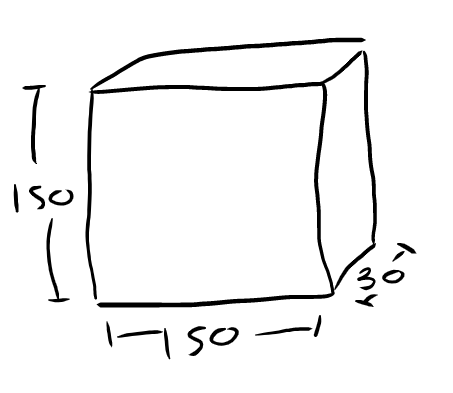
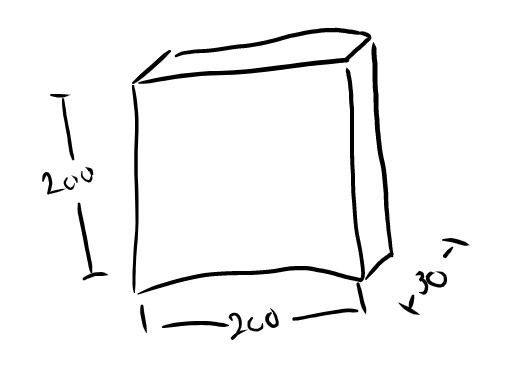
Add post for 2022-09-18

Changed region(s): [[0.0309, 0.0603, 0.9272, 0.9342], [0.0309, 0.211, 0.1545, 0.4521]]

diff --git a/docs/_posts/2022-09-18-measurements.md b/docs/_posts/2022-09-18-measurements.md
@@ -1,0 +1,71 @@
+---
+date: 2022-09-18 06:00:00 +1200
+layout: post
+tags: [Tinkercad]
+title: "Measurements"
+---
+
+Oh man there were a lot of numbers to think about today... Subconciously, I knew that it would be very hard to figure out how big everything should be. There are also things in the project such as spacing between LEDS and the size of the bolts I have that cannot be easily changed. This means I am contrained in some ways with what I can do.
+
+I started out thinking I would build a 200 x 200 x 30 mm box.
+
+One of my main sources of inspiration for measurements and constuction is the [Hexagonal Nanoleaf - Hexaleaf][hexaleaf] project on Thingiverse:
+
+![Hexaleafs]({{ site.baseurl }}/assets/images/hexaleafs.png)
+
+The main difference is I will be making a single, square box instead of multiple hexagons. The creator of Hexaleaf has included some of the dimensions of the project which have been very useful for my own designs:
+
+![Hexaleaf dimensions]({{ "assets/images/hexaleaf-dimensions.png" | relative_url }})
+
+The most important things I got from the above dimensions are the wall width of the enclosure (4 mm), the border width of the cover image (4 mm), and the height of the cover image (4 mm [3 mm + 1 mm sloped section]).:
+
+![Cover edge dimensions]({{ "assets/images/cover-edge-dimensions.png" | relative_url }})
+
+I was interested to see that Hexaleaf's depend on friction to hold the cover image in place, like so:
+
+![Cover mount]({{ "assets/images/cover-mount.png" | relative_url }})
+
+Based on the original 200 x 200 mm dimensions I was targetting, and the 4 mm wall width of the Hexaleafs, I calculated the length of each internal wall to be 192 mm. Given the LEDs I have are spaced 16.2 mm apart, this means I can have approximately 12 LEDs per wall. This would equate to 48 LEDs in total, which I am not sure the Pico can drive.
+
+<table>
+  <tr>
+    <td>
+      <img src="{{ 'assets/images/original-dimensions.png' | relative_url }}" alt="Original dimensions" />
+    </td>
+    <td>
+      <img src="{{ 'assets/images/led-spacing.png' | relative_url }}" alt="LED spacing" />
+    </td>
+  </tr>
+</table>
+
+To be on the safe side, I will aim for 30 LEDs maximumm, 8 on the left, top, and right walls, and 6 on the bottom wall, to account for where the Pico will be mounted.
+
+With this in mind, the ideal internal wall length will be more like 130 mm. I will include 10 mm on either side, giving a final internal wall length of 150 mm. Including the 4 mm wall width, results in a 158 x 158 mm square:
+
+![LED based dimensions]({{ "assets/images/led-based-dimensions.png" | relative_url }})
+
+What all of this ends up meaning for the cover image is that it will be 154 x 154 mm:
+
+![Cover dimensions]({{ "assets/images/front-bottom-dimensions.png" | relative_url }})
+
+I ended up having to tweak the SVG a bit to make sure the border is 4 mm:
+
+![Cover image]({{ "assets/images/final_svg.png" | relative_url }})
+
+That was just for the X and Y axis of the project... Let's talk about the Z axis 😅.
+
+There are several layers to the Z axis:
+
+* Cover image
+* LED strip
+* Base of the enclosure
+
+There is also the Rasperry Pi Pico but that will sit in the middle of the enclosure and it not very thick so don't think it needs to be included here. I will add a 1 mm space between the LED strip and top/bottom of the enclosure.
+
+Given the above:
+
+`4 mm (cover image) + 1 mm + 9.4 mm (LED strip) + 1 mm + 4 mm (base) = 19.4 mm`
+
+![Cross section]({{ "assets/images/cross-section.png" | relative_url }})
+
+[hexaleaf]: https://www.thingiverse.com/thing:5154193
